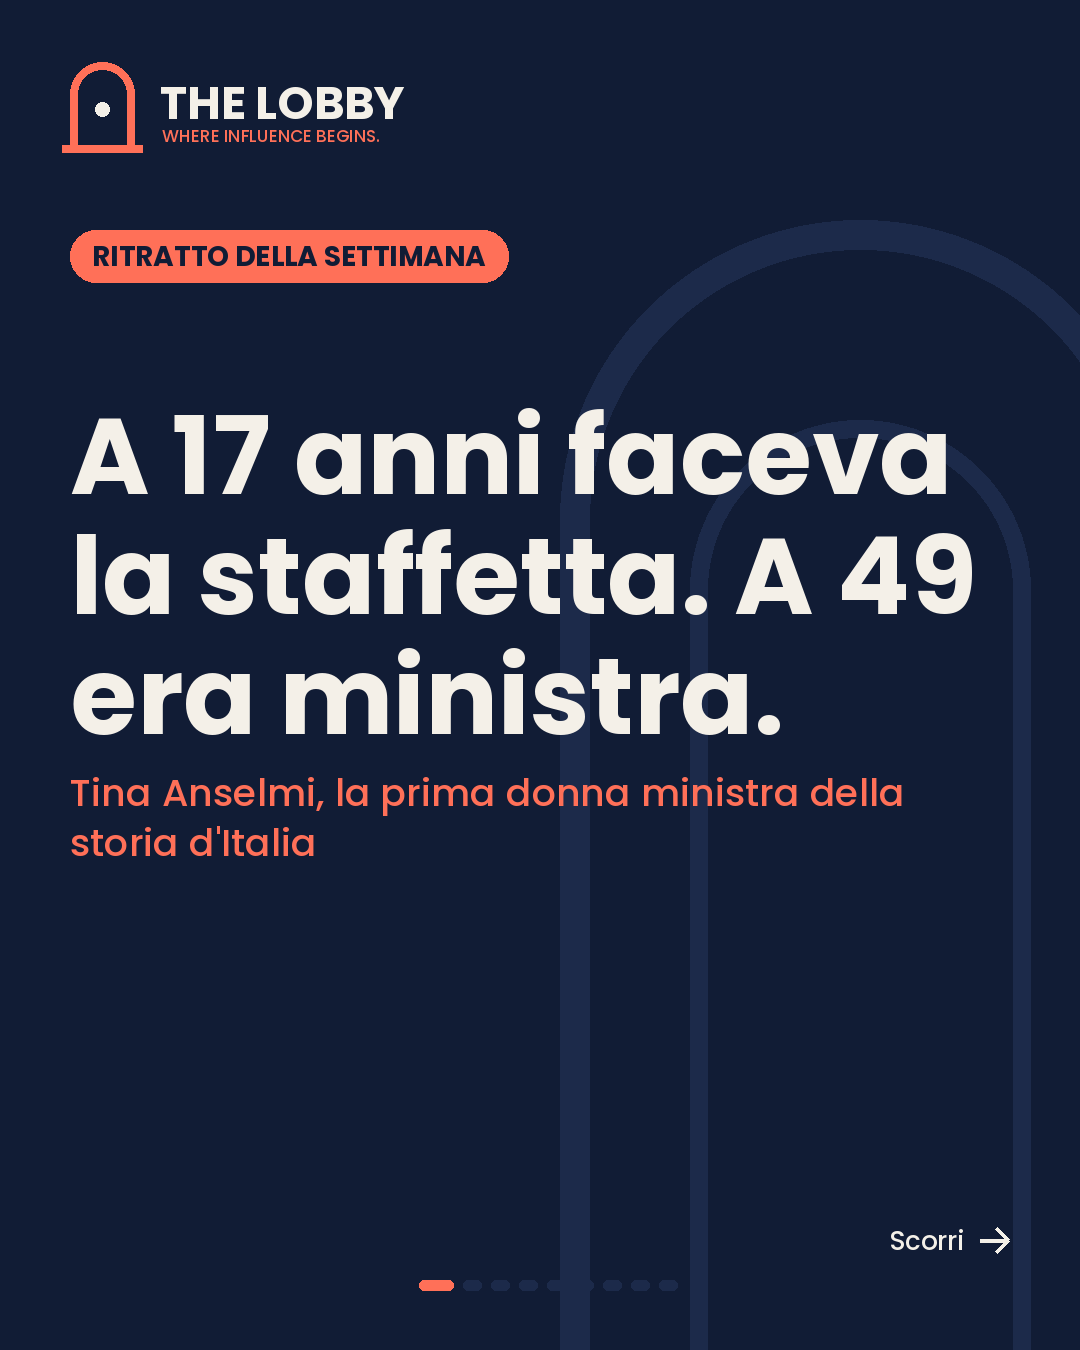
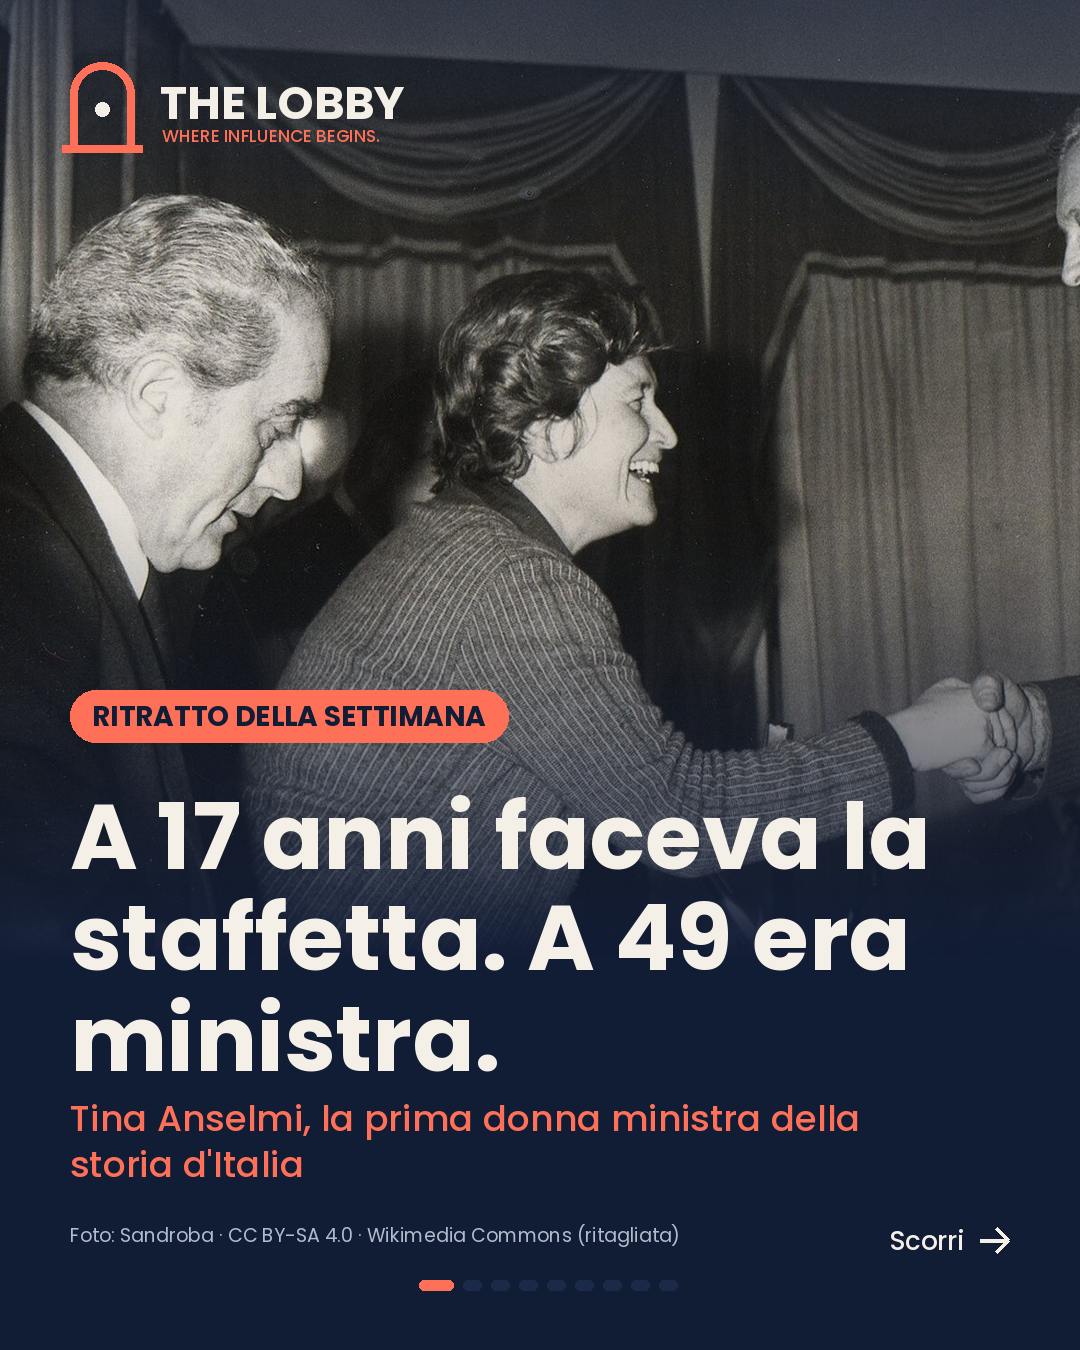
Ritratto di Tina Anselmi: copertina con foto (CC BY-SA 4.0)
Claude-Session: https://claude.ai/code/session_014PQd5y3wUwADFChvS9BjJ1

diff --git a/make_carousel.py b/make_carousel.py
@@ -62,9 +62,10 @@ def cover_photo(data, n):
     img = Image.new("RGB", (W, H), NAVY)
     ph = Image.open(data["photo"]).convert("RGB")
     area_h = 1000
-    s = max(W / ph.width, area_h / ph.height)
+    s = max(W / ph.width, area_h / ph.height) * float(data.get("photo_zoom", 1.0))
     ph = ph.resize((max(W, int(ph.width * s)), max(area_h, int(ph.height * s))), Image.LANCZOS)
-    left = (ph.width - W) // 2
+    fx = float(data.get("photo_focus_x", 0.5))                 # dove sta il volto in orizzontale (0-1)
+    left = min(max(int(fx * ph.width - W / 2), 0), ph.width - W)
     top = int((ph.height - area_h) * float(data.get("photo_focus", 0.15)))  # di solito il volto sta in alto
     img.paste(ph.crop((left, top, left + W, top + area_h)), (0, 0))
     shade = Image.new("L", (W, H), 0)
